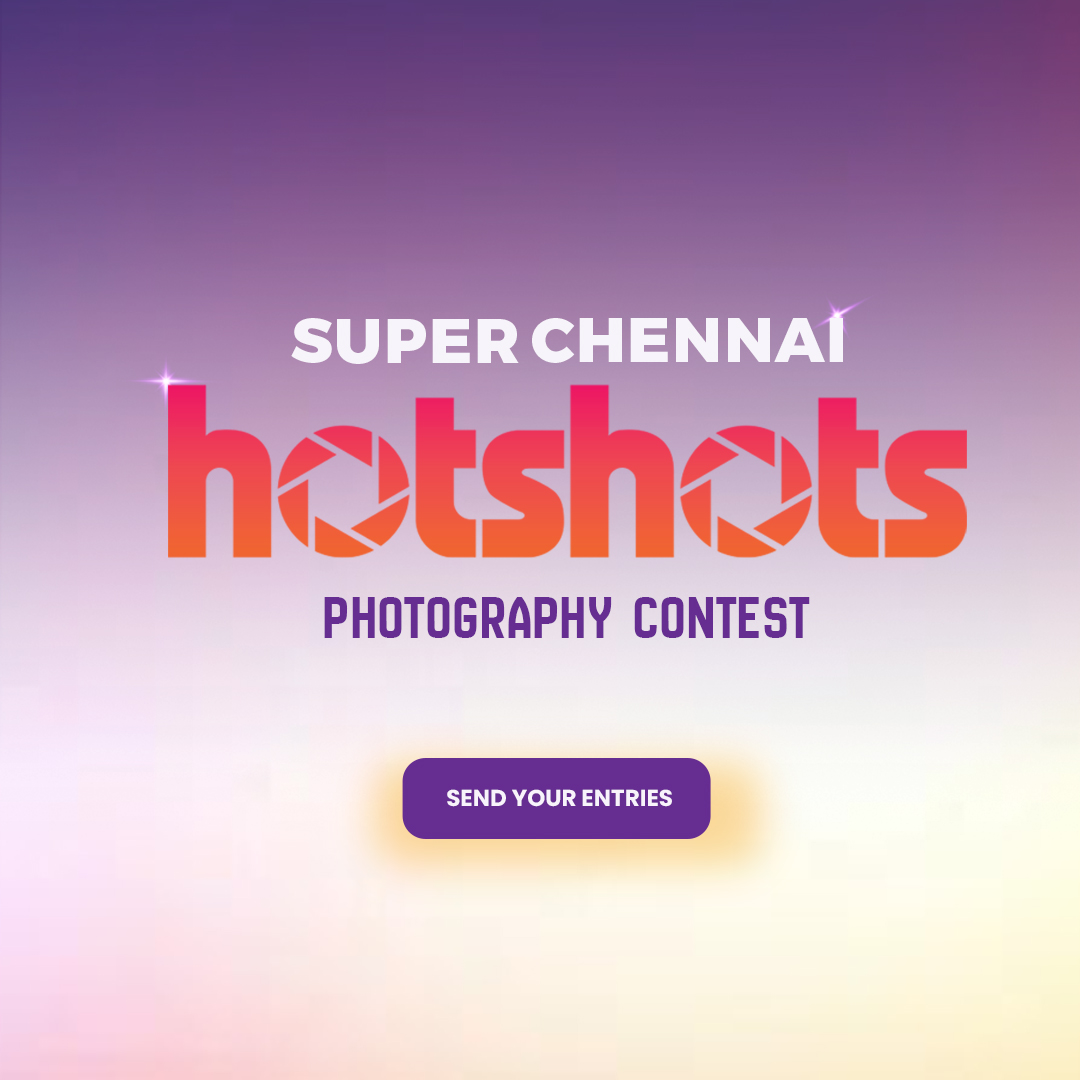
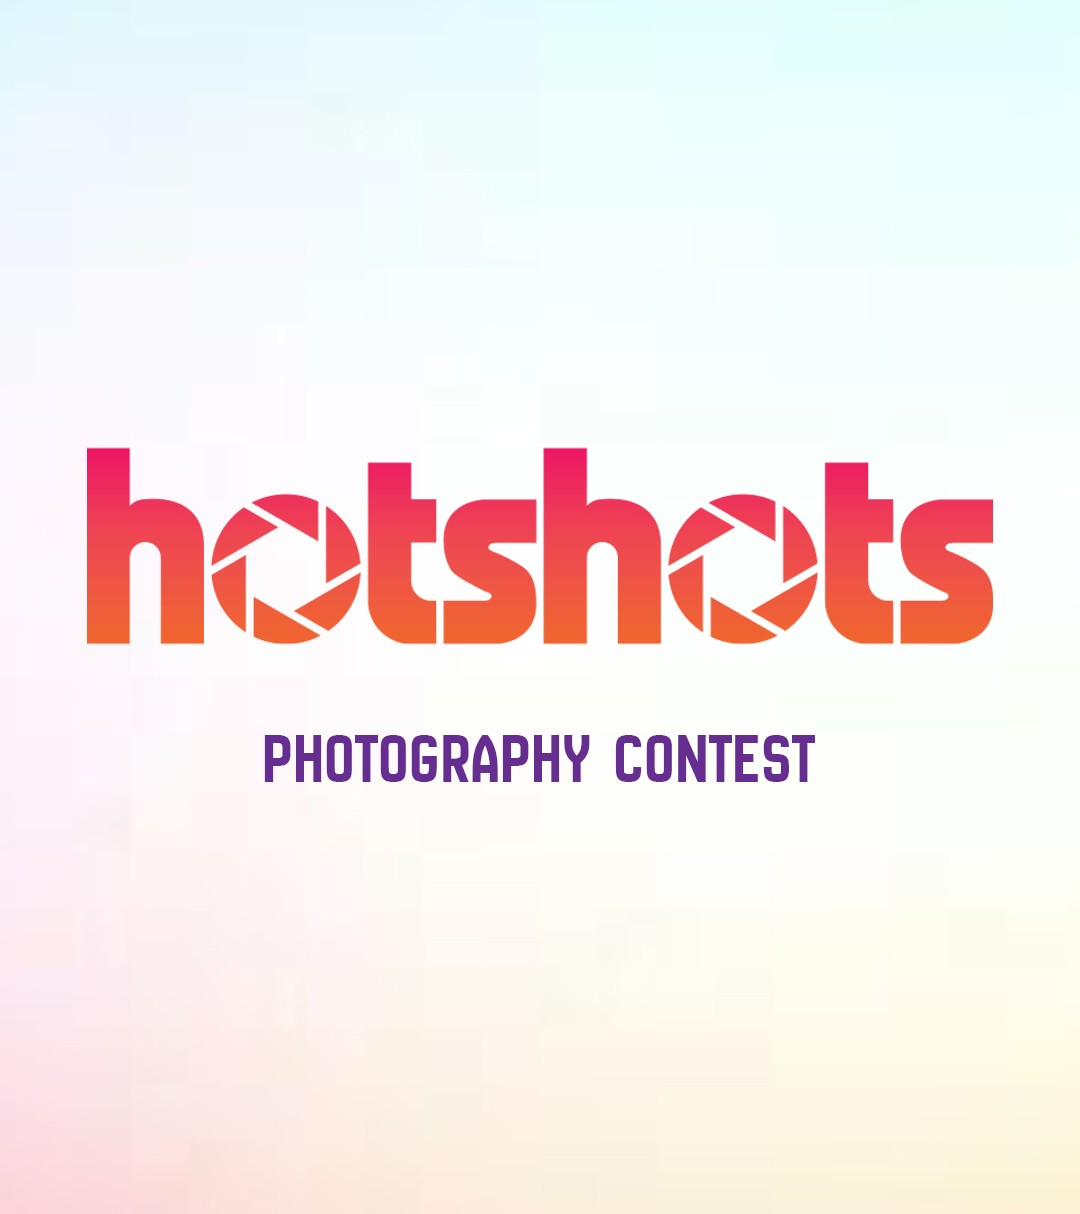
add baner

diff --git a/src/Pages/Activities/HotshotChennai/HotshotChennaiContest.jsx b/src/Pages/Activities/HotshotChennai/HotshotChennaiContest.jsx
@@ -158,7 +158,7 @@ export default function HotshotChennaiContest() {
         <div className="relative z-0">
           <img
             className="eventsCalenderIamge hidden sm:block w-full"
-            src="/images/events/hotshots-all.jpg"
+            src="/images/events/hotshots-banner-1.jpg"
             alt="Super Chennai Quiz"
           />
 
